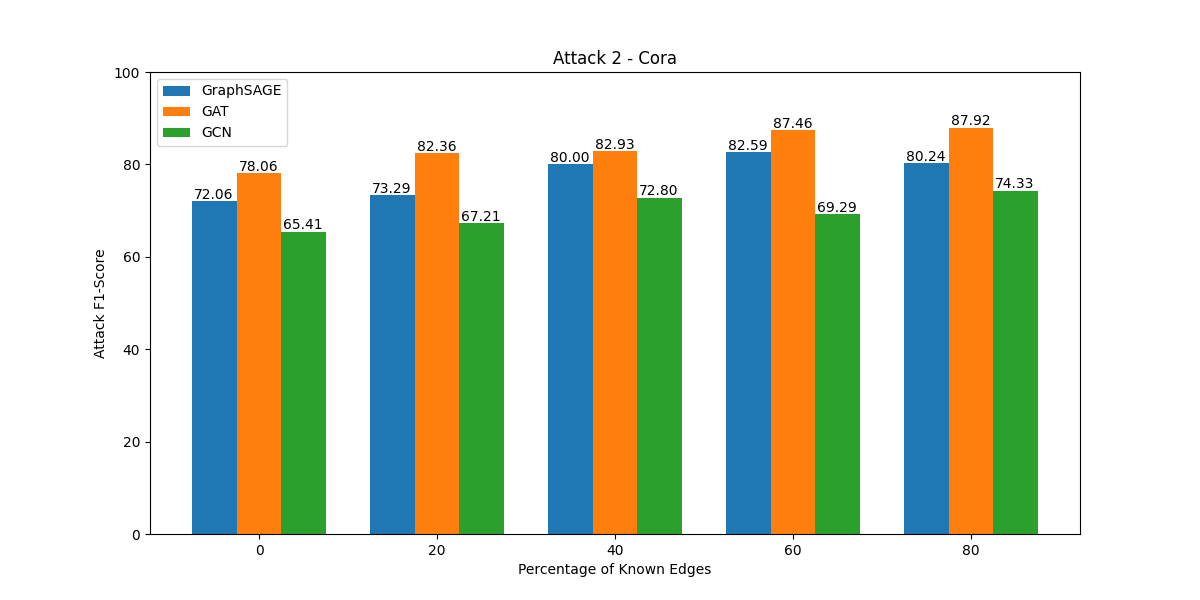
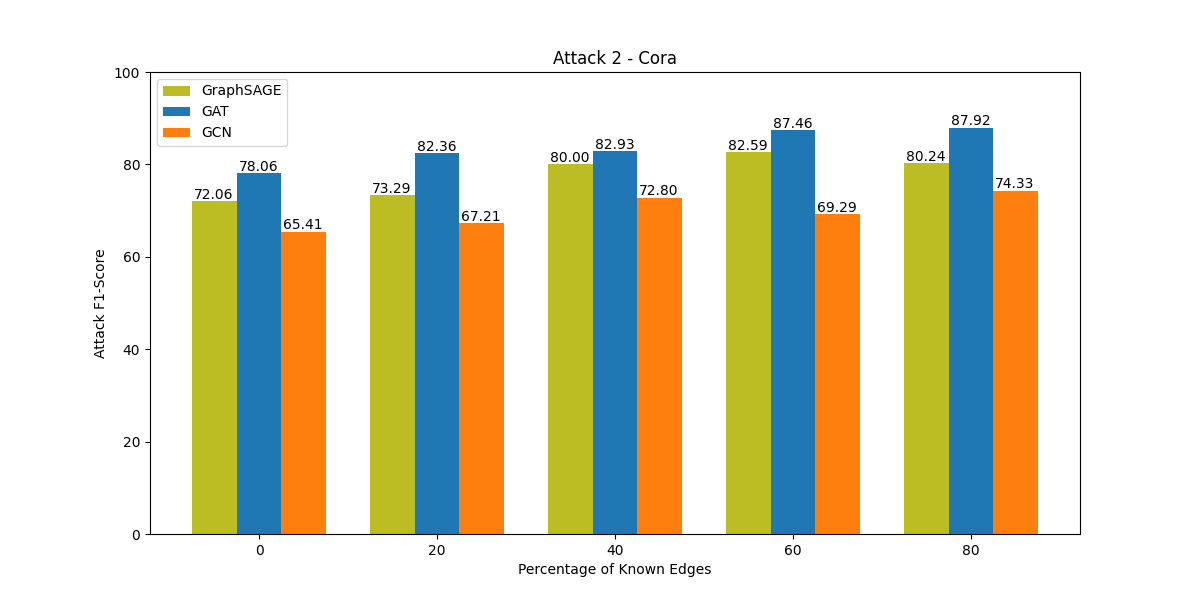
color of bars

diff --git a/Experiment/results/plot.py b/Experiment/results/plot.py
@@ -17,7 +17,7 @@ def a1_cora():
     size = 0.25
     lsize = 0.115
     y_size = 0.5
-    plt.bar(X_axis - size, graphsage, size, label = 'GraphSAGE')
+    plt.bar(X_axis - size, graphsage, size, label = 'GraphSAGE', color='tab:olive')
     for i, value in enumerate(graphsage):
         plt.text(X_axis[i] - size - lsize, value + y_size, s=f'{value:0.2f}')
 
@@ -52,7 +52,7 @@ def a1_citeseer():
     size = 0.25
     lsize = 0.115
     y_size = 0.5
-    plt.bar(X_axis - size, graphsage, size, label = 'GraphSAGE')
+    plt.bar(X_axis - size, graphsage, size, label = 'GraphSAGE', color='tab:olive')
     for i, value in enumerate(graphsage):
         plt.text(X_axis[i] - size - lsize, value + y_size, s=f'{value:0.2f}')
 
@@ -80,14 +80,14 @@ def a1_pubmed():
 
     graphsage = [73.39, 75.73, 76.02, 75.52, 77.57]
     gat = [73.42, 73.40, 73.49, 74.94, 74.96]
-    gcn = [10, 20, 30, 40, 50]
+    gcn = [0, 0, 0, 0, 0]
 
     X_axis = np.arange(len(bartypes))
 
     size = 0.25
     lsize = 0.115
     y_size = 0.5
-    plt.bar(X_axis - size, graphsage, size, label = 'GraphSAGE')
+    plt.bar(X_axis - size, graphsage, size, label = 'GraphSAGE', color='tab:olive')
     for i, value in enumerate(graphsage):
         plt.text(X_axis[i] - size - lsize, value + y_size, s=f'{value:0.2f}')
 
@@ -129,7 +129,7 @@ def a2_cora():
     size = 0.25
     lsize = 0.115
     y_size = 0.5
-    plt.bar(X_axis - size, graphsage, size, label = 'GraphSAGE')
+    plt.bar(X_axis - size, graphsage, size, label = 'GraphSAGE', color='tab:olive')
     for i, value in enumerate(graphsage):
         plt.text(X_axis[i] - size - lsize, value + y_size, s=f'{value:0.2f}')
 
@@ -164,7 +164,7 @@ def a2_citeseer():
     size = 0.25
     lsize = 0.115
     y_size = 0.5
-    plt.bar(X_axis - size, graphsage, size, label = 'GraphSAGE')
+    plt.bar(X_axis - size, graphsage, size, label = 'GraphSAGE', color='tab:olive')
     for i, value in enumerate(graphsage):
         plt.text(X_axis[i] - size - lsize, value + y_size, s=f'{value:0.2f}')
 
@@ -192,14 +192,14 @@ def a2_pubmed():
 
     graphsage = [75.47, 79.37, 80.98, 81.72, 83.21]
     gat = [77.30, 79.63, 80.35, 82.73, 82.37]
-    gcn = [10, 20, 30, 40, 50]
+    gcn = [0, 0, 0, 0, 0]
 
     X_axis = np.arange(len(bartypes))
 
     size = 0.25
     lsize = 0.115
     y_size = 0.5
-    plt.bar(X_axis - size, graphsage, size, label = 'GraphSAGE')
+    plt.bar(X_axis - size, graphsage, size, label = 'GraphSAGE', color='tab:olive')
     for i, value in enumerate(graphsage):
         plt.text(X_axis[i] - size - lsize, value + y_size, s=f'{value:0.2f}')
 
@@ -232,16 +232,16 @@ def a3_cora_citeseer():
 
     bartypes = ['0', '20', '40', '60', '80']
 
-    graphsage = [10, 20, 30, 40, 50]
-    gat = [10, 20, 30, 40, 50]
-    gcn = [10, 20, 30, 40, 50]
+    graphsage = [0, 0, 0, 0, 0]
+    gat = [0, 0, 0, 0, 0]
+    gcn = [0, 0, 0, 0, 0]
 
     X_axis = np.arange(len(bartypes))
 
     size = 0.25
     lsize = 0.115
     y_size = 0.5
-    plt.bar(X_axis - size, graphsage, size, label = 'GraphSAGE')
+    plt.bar(X_axis - size, graphsage, size, label = 'GraphSAGE', color='tab:olive')
     for i, value in enumerate(graphsage):
         plt.text(X_axis[i] - size - lsize, value + y_size, s=f'{value:0.2f}')
 
@@ -267,16 +267,16 @@ def a3_cora_pubmed():
 
     bartypes = ['0', '20', '40', '60', '80']
 
-    graphsage = [10, 20, 30, 40, 50]
-    gat = [10, 20, 30, 40, 50]
-    gcn = [10, 20, 30, 40, 50]
+    graphsage = [0, 0, 0, 0, 0]
+    gat = [0, 0, 0, 0, 0]
+    gcn = [0, 0, 0, 0, 0]
 
     X_axis = np.arange(len(bartypes))
 
     size = 0.25
     lsize = 0.115
     y_size = 0.5
-    plt.bar(X_axis - size, graphsage, size, label = 'GraphSAGE')
+    plt.bar(X_axis - size, graphsage, size, label = 'GraphSAGE', color='tab:olive')
     for i, value in enumerate(graphsage):
         plt.text(X_axis[i] - size - lsize, value + y_size, s=f'{value:0.2f}')
 
@@ -302,16 +302,16 @@ def a3_citeseer_cora():
 
     bartypes = ['0', '20', '40', '60', '80']
 
-    graphsage = [10, 20, 30, 40, 50]
-    gat = [10, 20, 30, 40, 50]
-    gcn = [10, 20, 30, 40, 50]
+    graphsage = [0, 0, 0, 0, 0]
+    gat = [0, 0, 0, 0, 0]
+    gcn = [0, 0, 0, 0, 0]
 
     X_axis = np.arange(len(bartypes))
 
     size = 0.25
     lsize = 0.115
     y_size = 0.5
-    plt.bar(X_axis - size, graphsage, size, label = 'GraphSAGE')
+    plt.bar(X_axis - size, graphsage, size, label = 'GraphSAGE', color='tab:olive')
     for i, value in enumerate(graphsage):
         plt.text(X_axis[i] - size - lsize, value + y_size, s=f'{value:0.2f}')
 
@@ -337,16 +337,16 @@ def a3_citeseer_pubmed():
 
     bartypes = ['0', '20', '40', '60', '80']
 
-    graphsage = [10, 20, 30, 40, 50]
-    gat = [10, 20, 30, 40, 50]
-    gcn = [10, 20, 30, 40, 50]
+    graphsage = [0, 0, 0, 0, 0]
+    gat = [0, 0, 0, 0, 0]
+    gcn = [0, 0, 0, 0, 0]
 
     X_axis = np.arange(len(bartypes))
 
     size = 0.25
     lsize = 0.115
     y_size = 0.5
-    plt.bar(X_axis - size, graphsage, size, label = 'GraphSAGE')
+    plt.bar(X_axis - size, graphsage, size, label = 'GraphSAGE', color='tab:olive')
     for i, value in enumerate(graphsage):
         plt.text(X_axis[i] - size - lsize, value + y_size, s=f'{value:0.2f}')
 
@@ -372,16 +372,16 @@ def a3_pubmed_cora():
 
     bartypes = ['0', '20', '40', '60', '80']
 
-    graphsage = [10, 20, 30, 40, 50]
-    gat = [10, 20, 30, 40, 50]
-    gcn = [10, 20, 30, 40, 50]
+    graphsage = [0, 0, 0, 0, 0]
+    gat = [0, 0, 0, 0, 0]
+    gcn = [0, 0, 0, 0, 0]
 
     X_axis = np.arange(len(bartypes))
 
     size = 0.25
     lsize = 0.115
     y_size = 0.5
-    plt.bar(X_axis - size, graphsage, size, label = 'GraphSAGE')
+    plt.bar(X_axis - size, graphsage, size, label = 'GraphSAGE', color='tab:olive')
     for i, value in enumerate(graphsage):
         plt.text(X_axis[i] - size - lsize, value + y_size, s=f'{value:0.2f}')
 
@@ -407,16 +407,16 @@ def a3_pubmed_citeseer():
 
     bartypes = ['0', '20', '40', '60', '80']
 
-    graphsage = [10, 20, 30, 40, 50]
-    gat = [10, 20, 30, 40, 50]
-    gcn = [10, 20, 30, 40, 50]
+    graphsage = [0, 0, 0, 0, 0]
+    gat = [0, 0, 0, 0, 0]
+    gcn = [0, 0, 0, 0, 0]
 
     X_axis = np.arange(len(bartypes))
 
     size = 0.25
     lsize = 0.115
     y_size = 0.5
-    plt.bar(X_axis - size, graphsage, size, label = 'GraphSAGE')
+    plt.bar(X_axis - size, graphsage, size, label = 'GraphSAGE', color='tab:olive')
     for i, value in enumerate(graphsage):
         plt.text(X_axis[i] - size - lsize, value + y_size, s=f'{value:0.2f}')
 
